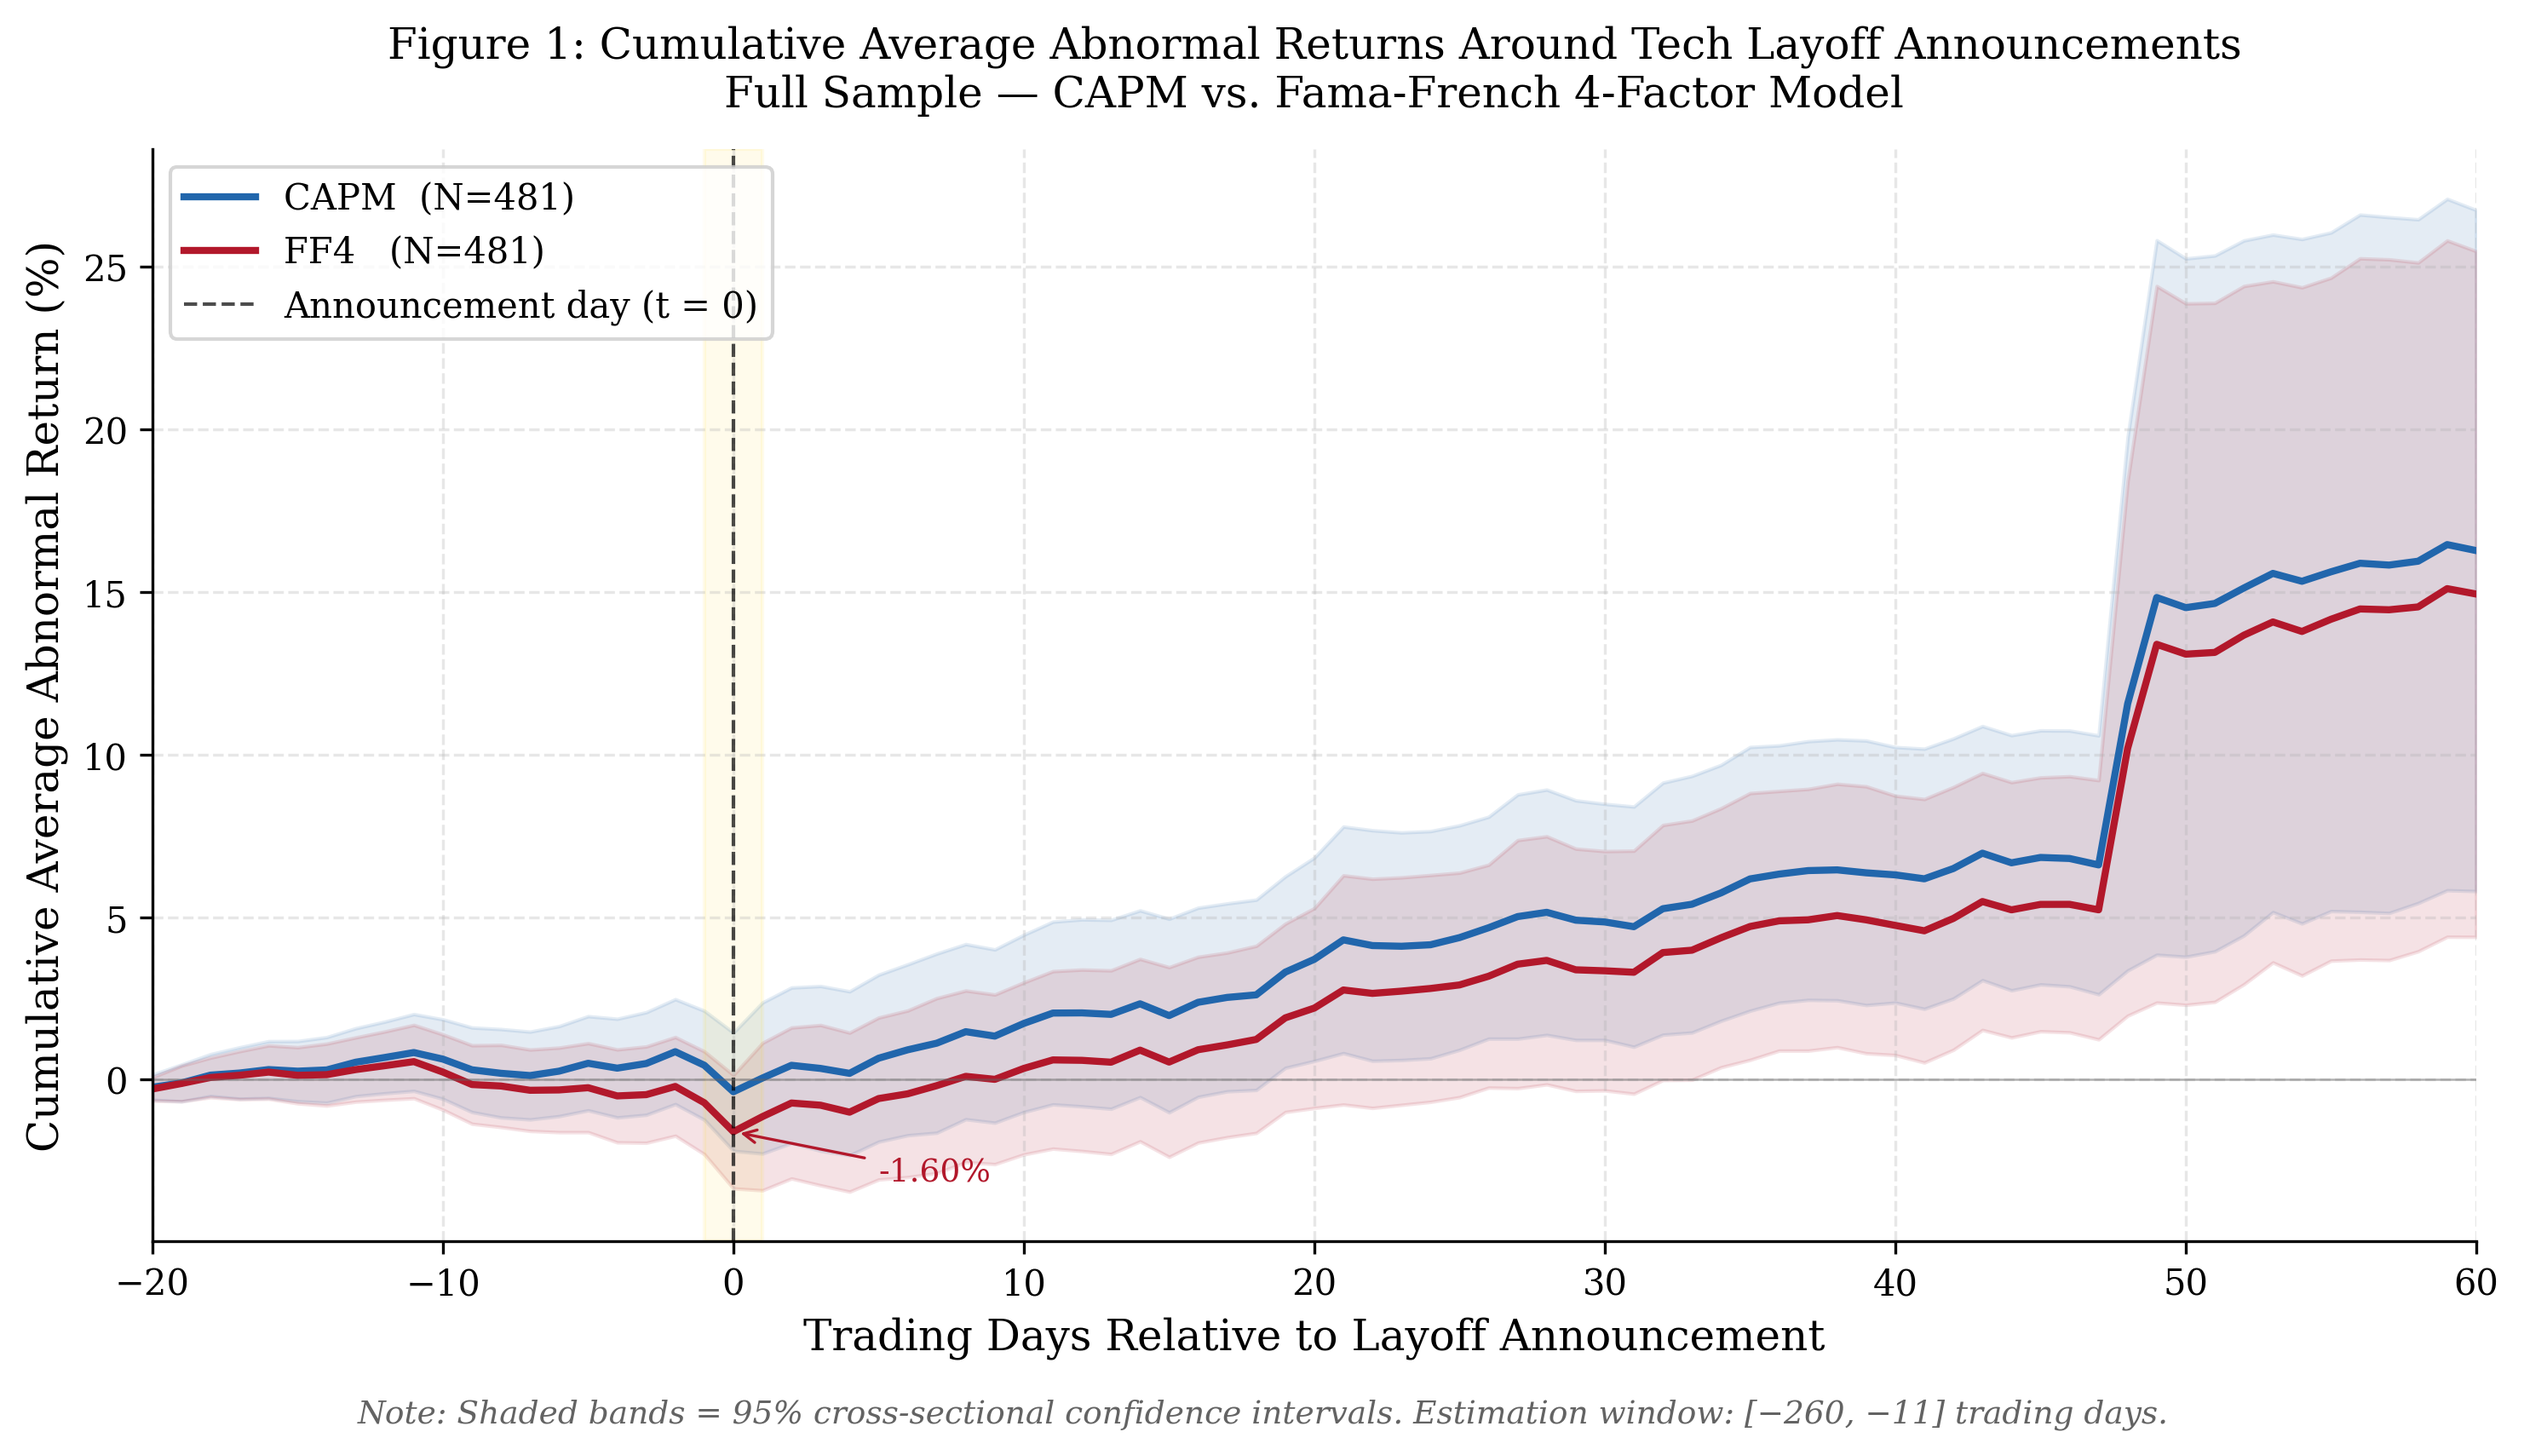
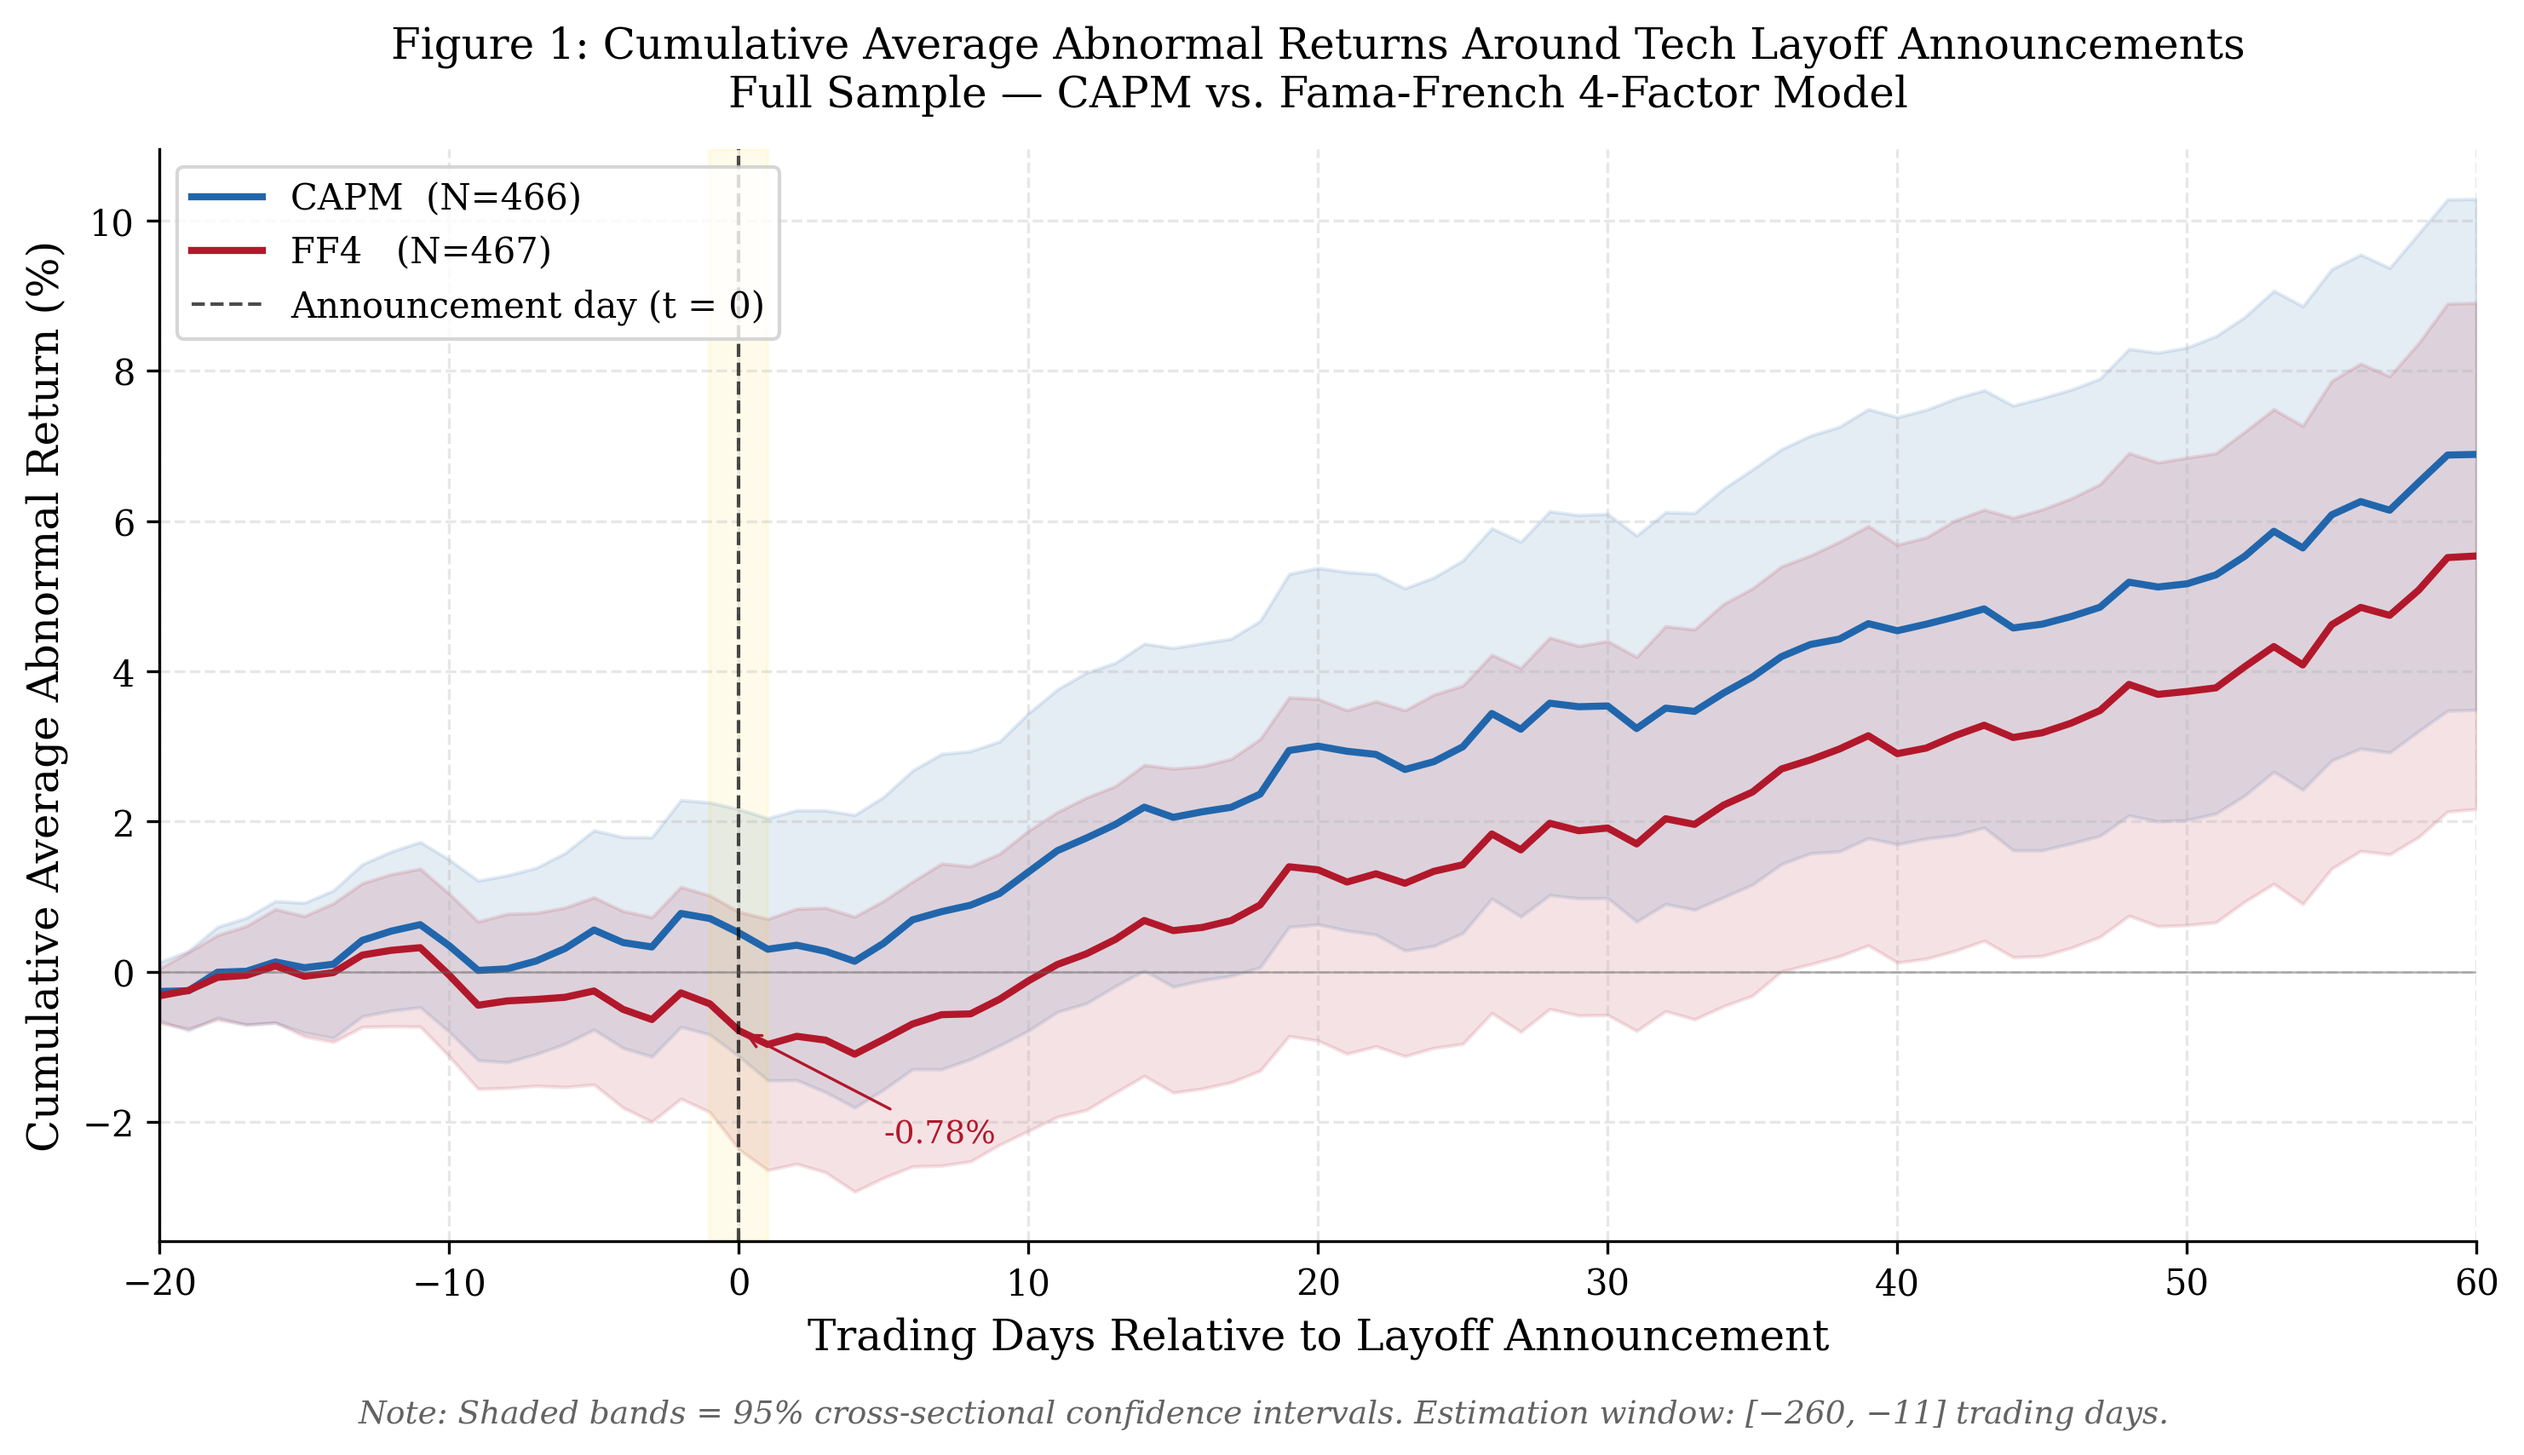
Fix CAAR jump: exclude bankrupt OTC penny stocks (SONDQ, SDCCQ, +13 others)
Added |AR| > 50% single-day filter in run_single_event() to drop near-zero
price OTC/bankruptcy stocks whose % returns distort CAAR averages.
14-15 events excluded; CAAR[-5,+60] corrected from +14.9% to +5.6% (FF4).
Regenerated all 7 figures and results CSVs.

diff --git a/analysis/diagnose_jump.py b/analysis/diagnose_jump.py
@@ -1,0 +1,163 @@
+"""
+Diagnose the CAAR jump around day +45 in the Post-GenAI subsample.
+Checks: sample drop-off, outlier ARs, and composition change.
+"""
+import sys, os
+import numpy as np
+import pandas as pd
+import matplotlib
+matplotlib.use('Agg')
+import matplotlib.pyplot as plt
+
+sys.path.insert(0, os.path.dirname(__file__))
+from event_study import load_data, run_single_event
+
+BASE       = '/Users/irmina/Documents/Claude/layoff_study'
+FIGS_DIR   = os.path.join(BASE, 'data/results/figures')
+RESULTS_DIR = os.path.join(BASE, 'data/results')
+
+def main():
+    print('Loading data and running FF4 for Post-GenAI events...')
+    events, ff = load_data()
+    post_events = events[events['announcement_date'].dt.year >= 2023]
+    print(f'  Post-GenAI events: {len(post_events)}')
+
+    results = []
+    for _, row in post_events.iterrows():
+        r = run_single_event(row, ff, model='ff4')
+        if r:
+            results.append(r)
+    print(f'  Processed: {len(results)}')
+
+    # ── 1. Count how many events have data at each relative day ──────────────
+    day_counts = {}
+    day_mean_ar = {}
+    for r in results:
+        daily = r['daily']
+        for _, drow in daily.iterrows():
+            rd = int(drow['rel_day'])
+            if rd not in day_counts:
+                day_counts[rd] = 0
+                day_mean_ar[rd] = []
+            day_counts[rd] += 1
+            day_mean_ar[rd].append(drow['AR'])
+
+    days_sorted = sorted(day_counts.keys())
+    counts = [day_counts[d] for d in days_sorted]
+    mean_ars = [np.mean(day_mean_ar[d]) for d in days_sorted]
+
+    print('\nSample size and mean AR by relative day (days 30-60):')
+    print(f'  {"Day":>5}  {"N events":>10}  {"Mean AR%":>10}  {"Max AR%":>10}  {"Min AR%":>10}')
+    for d in range(30, 61):
+        if d in day_counts:
+            ars = day_mean_ar[d]
+            print(f'  {d:>5}  {len(ars):>10}  {np.mean(ars)*100:>10.4f}  '
+                  f'{np.max(ars)*100:>10.4f}  {np.min(ars)*100:>10.4f}')
+
+    # ── 2. Find events that drop out between day 40 and 50 ──────────────────
+    events_at_40 = set()
+    events_at_50 = set()
+    for r in results:
+        daily = r['daily']
+        if (daily['rel_day'] == 40).any():
+            events_at_40.add(r['ticker'])
+        if (daily['rel_day'] == 50).any():
+            events_at_50.add(r['ticker'])
+
+    dropped = events_at_40 - events_at_50
+    print(f'\nEvents present at day +40 but NOT at day +50: {len(dropped)}')
+    if dropped:
+        print('  Dropped tickers:', sorted(dropped))
+
+    # ── 3. Check if dropped events have extreme CARs ─────────────────────────
+    print('\nCAR [-5,+60] for events that drop out early:')
+    from event_study import compute_cars
+    for r in results:
+        if r['ticker'] in dropped:
+            cars = compute_cars(r)
+            last_day = r['daily']['rel_day'].max()
+            print(f"  {r['ticker']:>12}  last_day={last_day:>4}  "
+                  f"CAR[-5+60]={cars.get('[-5,+60]', float('nan'))*100:>8.3f}%  "
+                  f"date={r['announcement_date'].date()}")
+
+    # ── 4. Identify large AR outliers around days 40-50 ─────────────────────
+    print('\nTop 10 largest |AR| on any day between +40 and +50 (Post-GenAI):')
+    outlier_rows = []
+    for r in results:
+        daily = r['daily']
+        mask = (daily['rel_day'] >= 40) & (daily['rel_day'] <= 50)
+        for _, drow in daily[mask].iterrows():
+            outlier_rows.append({
+                'ticker': r['ticker'],
+                'company': r['company_fyi'],
+                'rel_day': int(drow['rel_day']),
+                'AR_pct': drow['AR'] * 100,
+                'abs_AR': abs(drow['AR']),
+                'date': drow['date'],
+            })
+    outlier_df = pd.DataFrame(outlier_rows).sort_values('abs_AR', ascending=False)
+    print(outlier_df.head(10).to_string(index=False))
+
+    # ── 5. Plot: N events per day + mean AR per day ──────────────────────────
+    fig, (ax1, ax2) = plt.subplots(2, 1, figsize=(12, 8), sharex=True)
+
+    ax1.plot(days_sorted, counts, color='#2166ac', linewidth=2)
+    ax1.axvspan(40, 50, color='orange', alpha=0.15, label='Days 40–50 (suspect zone)')
+    ax1.axvline(45, color='red', linestyle='--', linewidth=1, alpha=0.7, label='Day +45')
+    ax1.set_ylabel('Number of Events with Data', fontsize=11)
+    ax1.set_title('Post-GenAI Subsample: Diagnostic — Sample Drop-off and Mean AR by Day', fontsize=12)
+    ax1.legend(fontsize=9)
+    ax1.grid(True, alpha=0.3)
+
+    ax2.bar(days_sorted, [v * 100 for v in mean_ars],
+            color=['red' if v < 0 else '#2166ac' for v in mean_ars],
+            alpha=0.6, width=0.8)
+    ax2.axhline(0, color='black', linewidth=0.8)
+    ax2.axvspan(40, 50, color='orange', alpha=0.15)
+    ax2.axvline(45, color='red', linestyle='--', linewidth=1, alpha=0.7)
+    ax2.set_ylabel('Mean Abnormal Return (%) per Day', fontsize=11)
+    ax2.set_xlabel('Relative Trading Day', fontsize=11)
+    ax2.grid(True, alpha=0.3)
+
+    fig.tight_layout()
+    out = os.path.join(FIGS_DIR, 'diag_jump_analysis.png')
+    fig.savefig(out, dpi=200, bbox_inches='tight')
+    plt.close(fig)
+    print(f'\nDiagnostic plot saved → {out}')
+
+    # ── 6. CAAR paths with and without the outlier events ───────────────────
+    from event_study import compute_daily_caar
+
+    # Find tickers with extreme CAR in the +40 to +50 range
+    threshold = outlier_df['abs_AR'].quantile(0.95)
+    extreme_tickers = set(outlier_df[outlier_df['abs_AR'] > threshold]['ticker'].unique())
+    print(f'\nTickers with |AR| > {threshold*100:.2f}% on any day +40 to +50: {extreme_tickers}')
+
+    clean_results = [r for r in results if r['ticker'] not in extreme_tickers]
+    print(f'Post-GenAI sample: {len(results)} total → {len(clean_results)} after removing extreme outliers')
+
+    fig2, ax = plt.subplots(figsize=(11, 5))
+    for res, color, label in [
+        (results,       '#b2182b', f'Original Post-GenAI (N={len(results)})'),
+        (clean_results, '#2166ac', f'Outliers removed (N={len(clean_results)})'),
+    ]:
+        days, caar, lo, hi = compute_daily_caar(res)
+        ax.plot(days, caar, color=color, linewidth=2, label=label)
+        ax.fill_between(days, lo, hi, color=color, alpha=0.10)
+
+    ax.axvline(0,  color='black', linestyle='--', linewidth=1, alpha=0.7)
+    ax.axhline(0,  color='grey',  linestyle='-',  linewidth=0.5, alpha=0.5)
+    ax.axvspan(40, 50, color='orange', alpha=0.12, label='Days 40–50 (suspect zone)')
+    ax.set_xlabel('Trading Days Relative to Announcement', fontsize=12)
+    ax.set_ylabel('CAAR (%)', fontsize=12)
+    ax.set_title('Post-GenAI CAAR: Original vs. Outlier-Removed', fontsize=12)
+    ax.legend(fontsize=10)
+    ax.grid(True, alpha=0.3)
+    fig2.tight_layout()
+    out2 = os.path.join(FIGS_DIR, 'diag_caar_outlier_comparison.png')
+    fig2.savefig(out2, dpi=200, bbox_inches='tight')
+    plt.close(fig2)
+    print(f'Comparison plot saved → {out2}')
+
+if __name__ == '__main__':
+    main()

diff --git a/analysis/event_study.py b/analysis/event_study.py
@@ -214,6 +214,14 @@ def run_single_event(event_row, ff, model='ff4'):
     date_to_relday = {d: i - 20 for i, d in enumerate(all_trading)}
     rel_days = np.array([date_to_relday.get(d, np.nan) for d in evt_data.index])
 
+    # ── Data quality filter: exclude penny stocks / bankrupt OTC stocks ──────
+    # If any single-day |AR| in the event window exceeds 50%, the stock is
+    # likely a near-zero-price OTC/bankruptcy name (e.g. SONDQ, SDCCQ) where
+    # small absolute moves produce enormous % returns.  Standard event-study
+    # practice is to drop these to prevent CAAR distortion.
+    if np.max(np.abs(AR)) > 0.50:
+        return None
+
     # Build daily results
     daily = pd.DataFrame({
         'date': evt_data.index,
